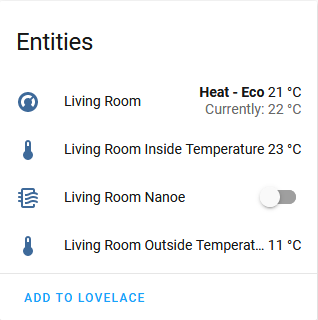
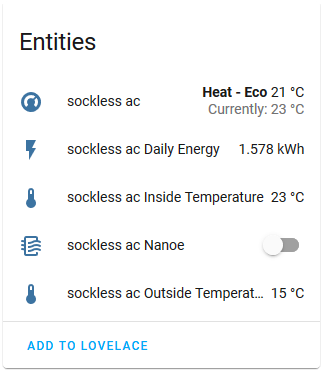
Added daily energy sensor

diff --git a/custom_components/panasonic_cc/panasonic.py b/custom_components/panasonic_cc/panasonic.py
@@ -1,6 +1,7 @@
 
 from datetime import timedelta
 import logging
+from datetime import datetime
 
 from typing import Any, Dict, Optional, List
 from homeassistant.util import Throttle
@@ -25,16 +26,18 @@ def api_call_login(func):
 
 class PanasonicApiDevice:
 
-    def __init__(self, hass: HomeAssistantType, api, device, force_outside_sensor):
+    def __init__(self, hass: HomeAssistantType, api, device, force_outside_sensor, enable_energy_sensor):
         from pcomfortcloud import constants
         self.hass = hass
         self._api = api
         self.device = device
         self.force_outside_sensor = force_outside_sensor
+        self.enable_energy_sensor = enable_energy_sensor
         self.id = device['id']
         self.name = device['name']
         self.group = device['group']
         self.data = None
+        self.energy_data = None
         self._available = True
         self.constants = constants
         
@@ -42,6 +45,10 @@ class PanasonicApiDevice:
     @Throttle(MIN_TIME_BETWEEN_UPDATES)
     async def update(self, **kwargs):
         await self.do_update()
+
+    @Throttle(MIN_TIME_BETWEEN_UPDATES)
+    async def update_energy(self, **kwargs):
+        await self.do_update_energy()
 
     async def do_update(self):
         try:
@@ -57,6 +64,19 @@ class PanasonicApiDevice:
             return
         self._available = True
         self.data = data
+
+    async def do_update_energy(self):
+        try:
+            data= await self.hass.async_add_executor_job(self._api.history,self.id,"Day",datetime.now().strftime("%Y%m%d"))
+        except:
+            _LOGGER.debug("Error trying to get device {id} state, probably expired token, trying to update it...".format(**self.device))
+            await self.hass.async_add_executor_job(self._api.login)
+            data= await self.hass.async_add_executor_job(self._api.get_device,self.id)
+
+        if data is None:
+            _LOGGER.debug("Received no energy data for device {id}".format(**self.device))
+            return
+        self.energy_data = data
 
     @property
     def available(self) -> bool:
@@ -131,6 +151,18 @@ class PanasonicApiDevice:
         p = self.data['parameters']
         if 'nanoe' in p:
             return p['nanoe']
+        return None
+
+    @property
+    def energy_sensor_enabled(self):
+        return self.enable_energy_sensor
+
+    @property
+    def daily_energy(self):
+        if not self.enable_energy_sensor:
+            return None
+        if self.energy_data is not None:
+            return self.energy_data['parameters']['energyConsumption']
         return None
 
     async def turn_off(self):

diff --git a/custom_components/panasonic_cc/sensor.py b/custom_components/panasonic_cc/sensor.py
@@ -17,7 +17,10 @@ def setup_platform(hass, config, add_entities, discovery_info=None):
             sensors.append(ATTR_INSIDE_TEMPERATURE)
         if device.support_outside_temperature:
             sensors.append(ATTR_OUTSIDE_TEMPERATURE)
-        add_entities([PanasonicClimateSensor(device, sensor) for sensor in sensors])
+        entities = [PanasonicClimateSensor(device, sensor) for sensor in sensors]
+        if device.energy_sensor_enabled:
+            entities.append(PanasonicEnergySensor(device))
+        add_entities(entities)
 
 async def async_setup_platform(hass, config, async_add_entities, discovery_info=None):
     pass
@@ -27,7 +30,10 @@ async def async_setup_entry(hass, entry, async_add_entities):
         sensors = [ATTR_INSIDE_TEMPERATURE]
         if device.support_outside_temperature:
             sensors.append(ATTR_OUTSIDE_TEMPERATURE)
-        async_add_entities([PanasonicClimateSensor(device, sensor) for sensor in sensors])
+        entities = [PanasonicClimateSensor(device, sensor) for sensor in sensors]
+        if device.energy_sensor_enabled:
+            entities.append(PanasonicEnergySensor(device))
+        async_add_entities(entities)
 
 
 class PanasonicClimateSensor(Entity):
@@ -72,6 +78,49 @@ class PanasonicClimateSensor(Entity):
     async def async_update(self):
         """Retrieve latest state."""
         await self._api.update()
+
+    @property
+    def device_info(self):
+        """Return a device description for device registry."""
+        return self._api.device_info
+
+class PanasonicEnergySensor(Entity):
+    """Representation of a Sensor."""
+
+    def __init__(self, api) -> None:
+        """Initialize the sensor."""
+        self._api = api
+        
+        self._name = f"{api.name} Daily Energy"
+
+    @property
+    def unique_id(self):
+        """Return a unique ID."""
+        return f"{self._api.id}-daily_energy_sensor"
+
+    @property
+    def icon(self):
+        """Icon to use in the frontend, if any."""
+        return "mdi:flash"
+
+    @property
+    def name(self):
+        """Return the name of the sensor."""
+        return self._name
+
+    @property
+    def state(self):
+        """Return the state of the sensor."""
+        return self._api.daily_energy
+
+    @property
+    def unit_of_measurement(self):
+        """Return the unit of measurement."""
+        return "kWh"
+
+    async def async_update(self):
+        """Retrieve latest state."""
+        await self._api.update_energy()
 
     @property
     def device_info(self):

diff --git a/custom_components/panasonic_cc/__init__.py b/custom_components/panasonic_cc/__init__.py
@@ -18,9 +18,10 @@ from homeassistant.helpers.typing import HomeAssistantType
 
 from homeassistant.helpers import discovery
 
-from .const import TIMEOUT, CONF_FORCE_OUTSIDE_SENSOR, DEFAULT_FORCE_OUTSIDE_SENSOR
+from .const import TIMEOUT, CONF_FORCE_OUTSIDE_SENSOR, DEFAULT_FORCE_OUTSIDE_SENSOR, CONF_ENABLE_DAILY_ENERGY_SENSOR, DEFAULT_ENABLE_DAILY_ENERGY_SENSOR
 
 from .panasonic import PanasonicApiDevice
+
 
 _LOGGER = logging.getLogger(__name__)
 
@@ -33,6 +34,7 @@ CONFIG_SCHEMA = vol.Schema(
                 vol.Required(CONF_USERNAME): cv.string,
                 vol.Required(CONF_PASSWORD): cv.string,
                 vol.Optional(CONF_FORCE_OUTSIDE_SENSOR, default=DEFAULT_FORCE_OUTSIDE_SENSOR): cv.boolean,
+                vol.Optional(CONF_ENABLE_DAILY_ENERGY_SENSOR, default=DEFAULT_ENABLE_DAILY_ENERGY_SENSOR): cv.boolean,
             }
         )
     },
@@ -62,16 +64,20 @@ async def async_setup_entry(hass: HomeAssistantType, entry: ConfigEntry):
 
     username = conf[CONF_USERNAME]
     password = conf[CONF_PASSWORD]
-    force_outside_sensor = False
+    force_outside_sensor = entry.options.get(CONF_FORCE_OUTSIDE_SENSOR, DEFAULT_FORCE_OUTSIDE_SENSOR)
     if CONF_FORCE_OUTSIDE_SENSOR in conf:
         force_outside_sensor = conf[CONF_FORCE_OUTSIDE_SENSOR]
+    enable_daily_energy_sensor = entry.options.get(CONF_ENABLE_DAILY_ENERGY_SENSOR, DEFAULT_ENABLE_DAILY_ENERGY_SENSOR)
+    
 
     api = pcomfortcloud.Session(username, password, verifySsl=False)
     devices = await hass.async_add_executor_job(api.get_devices)
     for device in devices:
         try:
-            api_device = PanasonicApiDevice(hass, api, device, force_outside_sensor)
+            api_device = PanasonicApiDevice(hass, api, device, force_outside_sensor, enable_daily_energy_sensor)
             await api_device.update()
+            if enable_daily_energy_sensor:
+                await api_device.update_energy()
             hass.data[PANASONIC_DEVICES].append(api_device)
         except Exception as e:
             _LOGGER.warning(f"Failed to setup device: {device['name']} ({e})")

diff --git a/custom_components/panasonic_cc/config_flow.py b/custom_components/panasonic_cc/config_flow.py
@@ -15,7 +15,12 @@ from . import DOMAIN as PANASONIC_DOMAIN
 
 from .panasonic import PanasonicApiDevice
 
-from .const import KEY_DOMAIN, TIMEOUT, CONF_FORCE_OUTSIDE_SENSOR
+from .const import (
+    KEY_DOMAIN, 
+    TIMEOUT, 
+    CONF_FORCE_OUTSIDE_SENSOR, 
+    CONF_ENABLE_DAILY_ENERGY_SENSOR, 
+    DEFAULT_ENABLE_DAILY_ENERGY_SENSOR)
 
 _LOGGER = logging.getLogger(__name__)
 
@@ -39,7 +44,12 @@ class FlowHandler(config_entries.ConfigFlow):
             if entry.data[KEY_DOMAIN] == PANASONIC_DOMAIN:
                 return self.async_abort(reason="already_configured")
 
-        return self.async_create_entry(title="", data={CONF_USERNAME: username, CONF_PASSWORD: password, CONF_FORCE_OUTSIDE_SENSOR: False})
+        return self.async_create_entry(title="", data={
+            CONF_USERNAME: username, 
+            CONF_PASSWORD: password, 
+            CONF_FORCE_OUTSIDE_SENSOR: False,
+            CONF_ENABLE_DAILY_ENERGY_SENSOR: DEFAULT_ENABLE_DAILY_ENERGY_SENSOR
+            })
 
     async def _create_device(self, username, password):
         """Create device."""
@@ -101,6 +111,12 @@ class PanasonicOptionsFlowHandler(config_entries.OptionsFlow):
                         CONF_FORCE_OUTSIDE_SENSOR,
                         default=self.config_entry.options.get(
                             CONF_FORCE_OUTSIDE_SENSOR, False
+                        ),
+                    ): bool,
+                    vol.Optional(
+                        CONF_ENABLE_DAILY_ENERGY_SENSOR,
+                        default=self.config_entry.options.get(
+                            CONF_ENABLE_DAILY_ENERGY_SENSOR, DEFAULT_ENABLE_DAILY_ENERGY_SENSOR
                         ),
                     ): bool,
                 }

diff --git a/custom_components/panasonic_cc/const.py b/custom_components/panasonic_cc/const.py
@@ -20,6 +20,8 @@ TIMEOUT = 60
 
 CONF_FORCE_OUTSIDE_SENSOR = "force_outside_sensor"
 DEFAULT_FORCE_OUTSIDE_SENSOR = False
+CONF_ENABLE_DAILY_ENERGY_SENSOR = "enable_daily_energy_sensor"
+DEFAULT_ENABLE_DAILY_ENERGY_SENSOR = False
 
 SENSOR_TYPE_TEMPERATURE = "temperature"
 

diff --git a/README.md b/README.md
@@ -18,22 +18,16 @@ This is a custom component to allow control of Panasonic Comfort Cloud devices i
 * Climate component for Panasonic airconditioners and heatpumps
 * Sensors for inside and outside temperature (where available)
 * Switch for toggling Nanoe
+* Daily energy sensor (optional)
 
 
 # Configuration
 
-The Panasonic Comfort Cloud integration can be configured in two ways
-1. Via the Home Assistant integration interface where it will let you enter your Panasonic ID and Password.
+The Panasonic Comfort Cloud integration can be configured via the Home Assistant integration interface where it will let you enter your Panasonic ID and Password.
 ![Setup](https://github.com/sockless-coding/panasonic_cc/raw/master/doc/setup_dlg.png)
 
-2. Enable the component by editing the configuration.yaml file (within the config directory as well).
-Edit it by adding the following lines:
-    ```
-    # Example configuration.yaml entry
-    panasonic_cc:
-        username: !secret panasonic_username
-        password: !secret panasonic_password
-    ```
+After inital setup additional options are available
+![Setup](https://github.com/sockless-coding/panasonic_cc/raw/master/doc/options_dlg.png)
 
 [license-shield]: https://img.shields.io/github/license/sockless-coding/panasonic_cc.svg?style=for-the-badge
 [releases-shield]: https://img.shields.io/github/release/sockless-coding/panasonic_cc.svg?style=for-the-badge

diff --git a/info.md b/info.md
@@ -13,20 +13,13 @@ This is a custom component to allow control of Panasonic Comfort Cloud devices i
 * Climate component for Panasonic airconditioners and heatpumps
 * Sensors for inside and outside temperature (where available)
 * Switch for toggling Nanoe
+* Daily energy sensor (optional)
 
 
 # Configuration
 
-The Panasonic Comfort Cloud integration can be configured in two ways
-1. Via the Home Assistant integration interface where it will let you enter your Panasonic ID and Password.<br/>
+The Panasonic Comfort Cloud integration can be configured via the Home Assistant integration interface where it will let you enter your Panasonic ID and Password.
+![Setup](https://github.com/sockless-coding/panasonic_cc/raw/master/doc/setup_dlg.png)
 
-    ![Setup](https://github.com/sockless-coding/panasonic_cc/raw/master/doc/setup_dlg.png)
-
-2. Enable the component by editing the configuration.yaml file (within the config directory as well).
-Edit it by adding the following lines:
-    ```
-    # Example configuration.yaml entry
-    panasonic_cc:
-        username: !secret panasonic_username
-        password: !secret panasonic_password
-    ```
+After inital setup additional options are available
+![Setup](https://github.com/sockless-coding/panasonic_cc/raw/master/doc/options_dlg.png)
